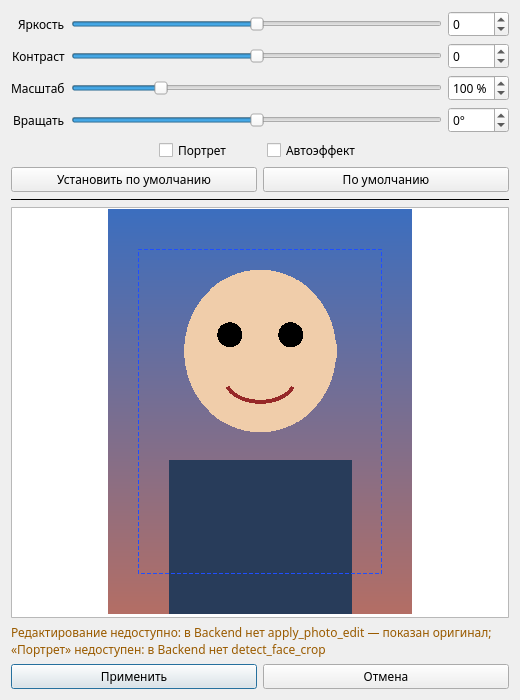
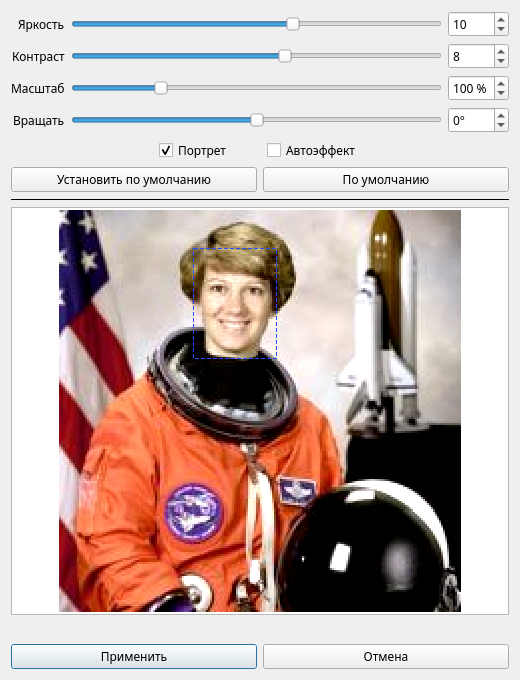
Этап 14: редактор фото на Backend ee79d16 — умолчания через get/set_photo_edit_defaults, «Применить» через apply_and_save_photo (field_name для поля image существующей записи), ValueError в статусе, сценарий qa_click_all, скриншот с рамкой лица

diff --git a/ui/smoke_test.py b/ui/smoke_test.py
@@ -781,46 +781,65 @@ dialogs.confirm_fields_hook = lambda new: seen.append(new) or True; dd.run(); di
 assert seen and dd.report.added == len(api.list_persons()) - 1 and {f["name"] for f in api2.list_fields()} >= {f0["name"]}, (dd.log.toPlainText(), api2.list_fields())
 dd.reject(); assert dd.sheets == [] and (wp is None or not Path(wp).exists()); api2.close()
 ok(f"этап 13: импорт xlsx (лист, заголовок, auto_match, «Отметка печати», привязка save/load/битая), .db → подтверждение → import_fields=True; sheet.close() при закрытии")
-# ===== этап 14: редактор фото (двойной клик / контекстное меню, ползунки, рамка, Портрет, Применить) =====
+# ===== этап 14: редактор фото (двойной клик / контекстное меню, ползунки, рамка, Портрет, умолчания, Применить) =====
 from PyQt6.QtTest import QTest
 from PyQt6.QtCore import QPointF
 from ui import photo_editor as pe
-from badge_backend import api as _bapi14
+from ui import backend_api as _ba14
+import shutil
 api14 = BackendAPI(str(tmp / "s14.db"), base_dir=str(tmp)); api14.upsert_field("foto", "Фото", 0, data_type="image")
 _pe = api14.create_element(type="photo", x=0, y=0, w=300, h=400); api14.link_field(_pe, "foto")
-demo.make_photo(tmp / "p14.png")
+_face = Path(__file__).resolve().parent.parent / "tests" / "fixtures" / "face_astronaut.jpg"
+if _face.is_file(): shutil.copy(_face, tmp / "p14.jpg")
+else: demo.make_photo(tmp / "p14.jpg")
 rf14 = RecordForm(api14, None, w); ie14 = rf14.edits["foto"]; rf14.show(); spin(30)
 assert abs(ie14.aspect - 0.75) < 1e-6 and not ie14.act_edit.isEnabled()
 got14 = []; pe.editor_hook = lambda d: got14.append(d) or 0
-ie14.from_file(str(tmp / "p14.png")); spin(30); assert not got14 and ie14.editor is None       # после файла сам не открывается
+ie14.from_file(str(tmp / "p14.jpg")); spin(30); assert not got14 and ie14.editor is None       # после файла сам не открывается
 assert ie14.act_edit in ie14.still.actions() and ie14.act_edit.isEnabled()                   # тот же QAction в контекстном меню
 QTest.mouseDClick(ie14.still, Qt.MouseButton.LeftButton); spin(30); ed14 = got14[-1]
-assert ed14.windowTitle() == "Редактировать изображение" and "apply_photo_edit" in ed14.status.text()
+assert ed14.windowTitle() == "Редактировать изображение"
 assert [b.text() for b in (ed14.b_apply, ed14.b_cancel)] == ["Применить", "Отмена"] and "УгЧ" not in " ".join(b.text() for b in ed14.findChildren(QPushButton))
 assert [(ed14.sp[k].minimum(), ed14.sp[k].maximum()) for k in ("brightness", "contrast", "scale", "rotate")] == [(-50, 50), (-50, 50), (10, 400), (-180, 180)]
-assert ed14.apply() is False and ed14.find_face() is False and not ed14.portrait.isChecked() and "Лицо не найдено" in ed14.status.text()
 r0 = ed14.frame.rect(); assert abs(r0.width() / r0.height() - 0.75) < 1e-3 and ed14.frame.pen().style() == Qt.PenStyle.DashLine
-ed14.frame.resize_corner("br", QPointF(r0.right() - 100, r0.bottom() - 10)); r1 = ed14.frame.rect()
+ed14.frame.resize_corner("br", QPointF(r0.right() - 50, r0.bottom() - 5)); r1 = ed14.frame.rect()
 assert abs(r1.width() / r1.height() - 0.75) < 1e-3 and r1.topLeft() == r0.topLeft() and r1.width() < r0.width()
 ed14.frame.move_by(QPointF(-10000, -10000)); assert ed14.frame.rect().topLeft() == QPointF(0, 0)
-ed14.sl["brightness"].setValue(20); assert ed14.sp["brightness"].value() == 20 and ed14.params()["brightness"] == 20
-ed14.save_defaults(); ed14.sp["brightness"].setValue(-5); ed14.load_defaults(); assert ed14.sp["brightness"].value() == 20
-ed14.settings.remove("photo_editor/defaults"); ed14.load_defaults(); assert ed14.params(crop=False)["brightness"] == 0
-# с функциями Backend (подставлены только в тесте: тождественная обработка + фиксированная рамка лица)
-calls = []
-_bapi14.apply_photo_edit = lambda img, p: calls.append(dict(p)) or img
-_bapi14.detect_face_crop = lambda img, aspect: (30, 40, 300, 400)
-try:
-    ed14.sp["contrast"].setValue(10); ed14.update_preview(); assert calls and calls[-1]["contrast"] == 10 and calls[-1]["crop"] is None
-    assert ed14.find_face() and ed14.crop() == (30, 40, 300, 400)
-    ed14.autoeffect.setChecked(True); assert ed14.apply() is True and calls[-1]["crop"] == (30, 40, 300, 400) and calls[-1]["autoeffect"]
-    assert ed14.result_path.startswith("photos/") and (tmp / ed14.result_path).is_file()
-    assert ie14.text() == ed14.result_path, (ie14.text(), ed14.result_path)
-    rf14.save(); assert api14.list_persons()[-1]["fields"]["foto"] == ed14.result_path
-finally:
-    del _bapi14.apply_photo_edit, _bapi14.detect_face_crop; pe.editor_hook = None
+if _ba14.photo_edit_available():
+    assert "нет apply_photo_edit" not in ed14.status.text() and "нет detect_face_crop" not in ed14.status.text(), ed14.status.text()
+    px0 = ed14.img.tobytes(); ed14.sl["brightness"].setValue(20); ed14.update_preview()
+    assert ed14.sp["brightness"].value() == 20 and ed14.img.tobytes() != px0                  # превью через Backend
+    sz0 = ed14.img.size; ed14.sp["scale"].setValue(50); ed14.update_preview(); assert ed14.img.width < sz0[0]
+    ed14.sp["scale"].setValue(100); ed14.update_preview()
+    # умолчания проекта — Backend get/set_photo_edit_defaults
+    assert ed14.save_defaults()["brightness"] == 20 and api14.get_photo_edit_defaults()["brightness"] == 20
+    ed14.sp["brightness"].setValue(-5); ed14.load_defaults(); assert ed14.sp["brightness"].value() == 20
+    ed14b = pe.PhotoEditor(str(tmp / "p14.jpg"), api14, 0.75); assert ed14b.sp["brightness"].value() == 20; ed14b.reject()
+    api14.set_photo_edit_defaults(dict(_ba14.PHOTO_EDIT_DEFAULTS)); ed14.load_defaults(); assert ed14.params(crop=False)["brightness"] == 0
+    # ValueError → статус по-русски
+    ed14.frame.setRect(ed14.frame.rect().translated(100000, 100000)); assert ed14.apply() is False and "Фото не сохранено" in ed14.status.text()
+    ed14.reset_frame()
+    # Портрет: рамка по лицу (или «Лицо не найдено»)
+    ed14.portrait.setChecked(True); spin(10)
+    face = ed14.portrait.isChecked(); assert face or "Лицо не найдено" in ed14.status.text()
+    if _face.is_file(): assert face, ed14.status.text()
+    fr = ed14.frame.rect(); assert abs(fr.width() / fr.height() - 0.75) < 0.02
+    ed14.autoeffect.setChecked(True); spin(100); assert ed14.params()["autoeffect"]
+    # Применить (новая запись → apply_and_save_photo без field_name; путь в поле формы → «Сохранить»)
+    assert ed14.apply() is True and ed14.result_path.startswith("photos/") and (tmp / ed14.result_path).is_file()
+    assert ie14.text() == ed14.result_path and (tmp / "p14.jpg").is_file(), (ie14.text(), ed14.result_path)
+    rf14.save(); pid14 = api14.list_persons()[-1]["id"]; assert api14.list_persons()[-1]["fields"]["foto"] == ed14.result_path
+    # существующая запись → apply_and_save_photo(field_name="foto", person_id) — Backend сам пишет поле
+    rf14b = RecordForm(api14, pid14, w); ie14b = rf14b.edits["foto"]; assert ie14b.person_id == pid14 and ie14b.field_name == "foto"
+    QTest.mouseDClick(ie14b.still, Qt.MouseButton.LeftButton); spin(30); ed14c = got14[-1]; old = ie14b.text()
+    assert ed14c.field_name == "foto" and ed14c.person_id == pid14 and ed14c.apply() is True and ed14c.result_path != old
+    assert api14.get_person(pid14)["fields"]["foto"] == ed14c.result_path == ie14b.text(); rf14b.reject()
+else:
+    assert "apply_photo_edit" in ed14.status.text() and ed14.apply() is False
+    assert ed14.find_face() is False and "Лицо не найдено" in ed14.status.text()
+pe.editor_hook = None
 api14.close()
-ok("этап 14: редактор фото — двойной клик/контекстное меню (один QAction), без автооткрытия, ползунки с полями, рамка с пропорциями элемента (углы/перенос), Портрет, по умолчанию, Применить → save_photo → поле image; без Backend — оригинал и статус")
+ok("этап 14: редактор фото — двойной клик/контекстное меню (один QAction), без автооткрытия, ползунки с полями, превью Backend, рамка с пропорциями (углы/перенос), Портрет (лицо), Автоэффект, умолчания проекта (Backend), ValueError в статусе, Применить → apply_and_save_photo → поле image")
 # расположение окна сохраняется автоматически в closeEvent
 _cfg2 = tempfile.mkdtemp(prefix="bg_ui_cfg2_")
 QSettings.setPath(QSettings.Format.NativeFormat, QSettings.Scope.UserScope, _cfg2)

diff --git a/ui/photo_editor.py b/ui/photo_editor.py
@@ -6,12 +6,13 @@ backend_api; нет функции → оригинал и статус «нед
 «Применить» → save_photo → относительный путь (в значение поля типа image). Внизу только «Применить» / «Отмена».
 """
 import json
-from PyQt6.QtCore import Qt, QTimer, QRectF, QPointF, QSettings
+from PyQt6.QtCore import Qt, QTimer, QRectF, QPointF
 from PyQt6.QtGui import QPen, QColor, QPixmap, QAction
 from PyQt6.QtWidgets import (QDialog, QVBoxLayout, QHBoxLayout, QGridLayout, QLabel, QSlider, QSpinBox, QCheckBox,
                              QPushButton, QGraphicsView, QGraphicsScene, QGraphicsRectItem, QGraphicsPixmapItem, QFrame)
 from .backend_api import (pil_to_qimage, PHOTO_EDIT_DEFAULTS, photo_edit_available, face_detect_available,
-                          open_image, apply_photo_edit, detect_face_crop, image_png_bytes)
+                          open_image, apply_photo_edit, detect_face_crop, image_png_bytes,
+                          apply_and_save_available)
 
 editor_hook = None   # тесты: editor_hook(dialog) вместо exec(); возвращает результат exec
 
@@ -66,10 +67,11 @@ class PhotoEditor(QDialog):
     SLIDERS = (("brightness", "Яркость", -50, 50, ""), ("contrast", "Контраст", -50, 50, ""),
                ("scale", "Масштаб", 10, 400, " %"), ("rotate", "Вращать", -180, 180, "°"))
 
-    def __init__(self, path, save_photo, aspect=3 / 4, parent=None, settings=None):
+    def __init__(self, path, api=None, aspect=3 / 4, parent=None, *, field_name=None, person_id=None):
+        """api — BackendAPI (умолчания проекта, apply_and_save_photo, save_photo); field_name/person_id — поле image записи."""
         super().__init__(parent); self.setWindowTitle("Редактировать изображение"); self.resize(520, 640)
-        self.path, self.save_photo, self.aspect, self.result_path = path, save_photo, aspect or 3 / 4, None
-        self.settings = settings or QSettings("BadgeGenerator", "Frontend")
+        self.path, self.api, self.aspect, self.result_path = path, api, aspect or 3 / 4, None
+        self.field_name, self.person_id = field_name, person_id
         self.src = open_image(path); self.img = self.src
         grid = QGridLayout(); self.sl, self.sp = {}, {}
         for i, (k, lab, lo, hi, suf) in enumerate(self.SLIDERS):
@@ -112,17 +114,26 @@ class PhotoEditor(QDialog):
         self.autoeffect.setChecked(bool(p.get("autoeffect")))
 
     def save_defaults(self):
-        p = self.params(crop=False); p.pop("crop"); self.settings.setValue("photo_editor/defaults", json.dumps(p)); return p
+        """«Установить по умолчанию» → Backend set_photo_edit_defaults (умолчания проекта, без crop)."""
+        try:
+            if self.api is None: raise ValueError("нет открытого проекта")
+            p = self.api.set_photo_edit_defaults(self.params(crop=False))
+        except ValueError as e:
+            self.status.setText(f"Умолчания не сохранены: {e}"); return None
+        self.status.setText("Текущие настройки сохранены как умолчания проекта"); return p
 
     def load_defaults(self, preview=True):
-        try: p = json.loads(self.settings.value("photo_editor/defaults") or "{}")
-        except Exception: p = {}  # noqa: BLE001
+        """«По умолчанию» → Backend get_photo_edit_defaults; нет проекта/функции → DEFAULT_PHOTO_EDIT."""
+        p = self.api.get_photo_edit_defaults() if self.api is not None else dict(PHOTO_EDIT_DEFAULTS)
         self.set_params({**PHOTO_EDIT_DEFAULTS, **p})
         if preview: self.update_preview()
 
     # ---- превью: только Backend ----
     def update_preview(self):
-        self.img = apply_photo_edit(self.src, self.params(crop=False))
+        try: self.img = apply_photo_edit(self.src, self.params(crop=False))
+        except ValueError as e:
+            self.status.setText(f"Ошибка правки: {e}"); return False
+        if self.status.text().startswith("Ошибка правки"): self.status.setText(self.base_status)
         self.pix.setPixmap(QPixmap.fromImage(pil_to_qimage(self.img)))
         b = QRectF(0, 0, self.img.width, self.img.height); self.scene.setSceneRect(b)
         if self.frame is not None:
@@ -151,7 +162,8 @@ class PhotoEditor(QDialog):
         self.frame.setRect(QRectF(x, y, w, w / self.aspect if w and h and abs(w / h - self.aspect) > 1e-3 else h))
 
     def find_face(self):
-        box = detect_face_crop(self.img, self.aspect)
+        try: box = detect_face_crop(self.img, self.aspect)
+        except ValueError as e: box = None; self.status.setText(f"Поиск лица: {e}")
         if not box:
             self.portrait.blockSignals(True); self.portrait.setChecked(False); self.portrait.blockSignals(False)
             self.status.setText("Лицо не найдено" + (f" ({self.base_status})" if not face_detect_available() else "")); return False
@@ -159,11 +171,22 @@ class PhotoEditor(QDialog):
 
     # ---- применить ----
     def apply(self):
+        """«Применить». Исходный файл есть всегда (файл или снимок во временном файле) → Backend apply_and_save_photo
+        (новый файл, исходник не трогается). Поле image СУЩЕСТВУЮЩЕЙ записи → field_name + person_id (Backend сам пишет
+        значение поля); новая запись / photo_path → без них: путь идёт в форму и сохраняется её кнопкой «Сохранить».
+        Нет apply_and_save_photo или исходного файла → apply_photo_edit + save_photo (байты)."""
         if not photo_edit_available():
             self.status.setText("Применить нельзя: в Backend нет apply_photo_edit"); return False
+        if self.api is None:
+            self.status.setText("Применить нельзя: нет открытого проекта"); return False
+        p = self.params()
         try:
-            out = apply_photo_edit(self.src, self.params())
-            self.result_path = self.save_photo(image_png_bytes(out), person_id=None, ext="png")
+            if apply_and_save_available() and self.path:
+                link = self.field_name is not None and self.person_id is not None
+                self.result_path = self.api.apply_and_save_photo(self.path, p, person_id=self.person_id if link else None,
+                                                                 field_name=self.field_name if link else None)
+            else:
+                self.result_path = self.api.save_photo(image_png_bytes(apply_photo_edit(self.src, p)), person_id=None, ext="png")
         except ValueError as e:
             self.status.setText(f"Фото не сохранено: {e}"); return False
         self.accept(); return True

diff --git a/ui/qa_click_all.py b/ui/qa_click_all.py
@@ -155,19 +155,47 @@ def scenario(tmp, chk, out, EXC):
             got = dd.report.added if dd.report else None; nf = len(api3.list_fields()); dd.reject(); api3.close()
             chk("DLG Импорт .db: подтверждение → import_fields=True, поля созданы", bool(asked) and nf > 0 and got and len(EXC) == n,
                 f"новые поля={asked[:1]}; создано полей={nf}; добавлено={got}")
-            # этап 14: редактор фото — двойной клик по фото в форме записи (тот же QAction, что в контекстном меню)
+            # этап 14: редактор фото — поле image, двойной клик по фото формы записи (тот же QAction, что в контекстном меню)
             from . import photo_editor as pe
+            from . import backend_api as ba
             from PyQt6.QtTest import QTest
-            n = len(EXC); f = RecordForm(w2.api, None, w2); f.show(); spin(50); pb = f.photo_block
-            ph = tmp / "qa14.png"; QImage(240, 320, QImage.Format.Format_RGB32).save(str(ph)); pb.from_file(str(ph)); spin(30)
-            auto = pb.editor is not None; seen = []
-            pe.editor_hook = lambda d: (d.show(), spin(50), seen.append((d.windowTitle(), d.isVisible(), d.b_apply.text(), d.b_cancel.text())), d.reject())
+            import shutil
+            from pathlib import Path
+            n = len(EXC); a14 = BackendAPI(str(tmp / "qa14.db"), base_dir=str(tmp)); a14.upsert_field("foto", "Фото", 0, data_type="image")
+            el = a14.create_element(type="photo", x=0, y=0, w=300, h=400); a14.link_field(el, "foto")
+            face = Path(__file__).resolve().parent.parent / "tests" / "fixtures" / "face_astronaut.jpg"
+            ph = tmp / "qa14.png"
+            if face.is_file(): ph = tmp / "qa14.jpg"; shutil.copy(face, ph)
+            else: img = QImage(240, 320, QImage.Format.Format_RGB32); img.fill(QColor("#7A8F9C")); img.save(str(ph))
+            f = RecordForm(a14, None, w2); f.show(); spin(50); pb = f.edits["foto"]; pb.from_file(str(ph)); spin(30)
+            auto = pb.editor is not None; seen = []; res = {}
+            def _drive(d):
+                d.show(); spin(50); seen.append((d.windowTitle(), d.isVisible(), d.b_apply.text(), d.b_cancel.text()))
+                px0 = d.img.tobytes(); d.sl["brightness"].setValue(25); d.sl["contrast"].setValue(10); d.update_preview(); spin(20)
+                res["preview"] = d.img.tobytes() != px0
+                d.portrait.setChecked(True); spin(20)
+                fr = d.frame.rect(); res["portrait"] = (d.portrait.isChecked() and abs(fr.width() / fr.height() - pb.aspect) < 0.02) \
+                    or "Лицо не найдено" in d.status.text()
+                d.autoeffect.setChecked(True); spin(100); res["auto"] = d.params()["autoeffect"] is True
+                saved = d.save_defaults(); d.sl["brightness"].setValue(-30); d.autoeffect.setChecked(False); d.load_defaults()
+                res["defaults"] = bool(saved) and d.sp["brightness"].value() == 25 and d.autoeffect.isChecked() \
+                    and a14.get_photo_edit_defaults()["brightness"] == 25
+                res["apply"] = d.apply(); res["path"] = d.result_path; res["status"] = d.status.text()
+                if d.isVisible(): d.reject()
+            pe.editor_hook = _drive
             try: QTest.mouseDClick(pb.still, Qt.MouseButton.LeftButton); spin(50)
             finally: pe.editor_hook = None
-            pb.stop(); f.reject(); spin(30)
+            val = pb.text(); pb.stop(); f.reject(); spin(30); a14.close()
             chk("DLG «Редактировать изображение» по двойному клику на фото формы записи (не открывается сам после файла)",
                 not auto and seen and seen[0][:2] == ("Редактировать изображение", True) and pb.act_edit in pb.still.actions() and len(EXC) == n,
                 seen or "не открылся")
+            if ba.photo_edit_available():
+                chk("DLG Редактор фото: ползунки меняют превью (Backend apply_photo_edit)", res.get("preview"), res)
+                chk("DLG Редактор фото: «Портрет» ставит рамку по лицу или статус «Лицо не найдено»", res.get("portrait"), res.get("status"))
+                chk("DLG Редактор фото: «Автоэффект» в параметрах", res.get("auto"), res)
+                chk("DLG Редактор фото: умолчания проекта сохраняются и восстанавливаются (Backend)", res.get("defaults"), res)
+                chk("DLG Редактор фото: «Применить» → новый photos/… в поле image", res.get("apply") is True and str(res.get("path", "")).startswith("photos/")
+                    and val == res["path"] and (tmp / val).is_file() and ph.is_file(), res)
         except Exception:  # noqa: BLE001
             chk("DLG Импорт/экспорт этапа 13 без исключений", False, traceback.format_exc()[-800:])
         finally:

diff --git a/ui/backend_api.py b/ui/backend_api.py
@@ -298,16 +298,18 @@ BackendAPI.import_rows = _bapi_import_rows
 BackendAPI.export_persons = _bapi_export_persons
 
 
-# ---------------- Этап 14: редактор фото (адаптер; функций пока нет в Backend) ----------------
-# Ожидается: apply_photo_edit(img: PIL.Image, params: dict) -> PIL.Image
-#            params = {"brightness": int -50..50, "contrast": int -50..50, "scale": int 10..400 (%),
-#                      "rotate": float -180..180 (°, по часовой), "crop": (x, y, w, h) | None (px исходника), "autoeffect": bool}
-#            detect_face_crop(img: PIL.Image, aspect: float) -> (x, y, w, h) | None   (aspect = w / h фото-элемента)
-PHOTO_EDIT_DEFAULTS = {"brightness": 0, "contrast": 0, "scale": 100, "rotate": 0.0, "crop": None, "autoeffect": False}
+# ---------------- Этап 14: редактор фото — Backend ee79d16 (badge_backend.api) ----------------
+# apply_photo_edit(img, params) -> Image; порядок autoeffect → яркость → контраст → масштаб → поворот по часовой
+#   (белая заливка) → crop (x,y,w,h) в пикселях уже преобразованного изображения; ValueError.
+# detect_face_crop(img, aspect) -> (x,y,w,h)|None; get/set_photo_edit_defaults(con[, params]) — без crop (project_settings, v6);
+# apply_and_save_photo(con, source_path, params, *, person_id, field_name, base_dir) -> "photos/…" (новый файл).
+PHOTO_EDIT_DEFAULTS = dict(getattr(_api, "DEFAULT_PHOTO_EDIT", None) or
+                           {"brightness": 0, "contrast": 0, "scale": 100, "rotate": 0.0, "crop": None, "autoeffect": False})
 
 
 def photo_edit_available(): return callable(getattr(_api, "apply_photo_edit", None))
 def face_detect_available(): return callable(getattr(_api, "detect_face_crop", None))
+def apply_and_save_available(): return callable(getattr(_api, "apply_and_save_photo", None))
 
 
 def open_image(path):
@@ -330,3 +332,27 @@ def detect_face_crop(img, aspect):
 def image_png_bytes(img):
     import io
     b = io.BytesIO(); img.save(b, "PNG"); return b.getvalue()
+
+
+def _bapi_get_photo_edit_defaults(self):
+    """Умолчания редактора фото проекта (Backend); нет функции/ошибка → DEFAULT_PHOTO_EDIT."""
+    fn = getattr(_api, "get_photo_edit_defaults", None)
+    try: return {**PHOTO_EDIT_DEFAULTS, **(fn(self.con) if fn else {}), "crop": None}
+    except Exception: return dict(PHOTO_EDIT_DEFAULTS)  # noqa: BLE001
+
+
+def _bapi_set_photo_edit_defaults(self, params):
+    fn = getattr(_api, "set_photo_edit_defaults", None)
+    if fn is None: raise ValueError("сохранение умолчаний недоступно: в Backend нет set_photo_edit_defaults")
+    return fn(self.con, {**params, "crop": None})
+
+
+def _bapi_apply_and_save_photo(self, source_path, params, *, person_id=None, field_name=None):
+    fn = getattr(_api, "apply_and_save_photo", None)
+    if fn is None: raise ValueError("применение недоступно: в Backend нет apply_and_save_photo")
+    return fn(self.con, source_path, dict(params), person_id=person_id, field_name=field_name, base_dir=self.base_dir)
+
+
+BackendAPI.get_photo_edit_defaults = _bapi_get_photo_edit_defaults
+BackendAPI.set_photo_edit_defaults = _bapi_set_photo_edit_defaults
+BackendAPI.apply_and_save_photo = _bapi_apply_and_save_photo

diff --git a/ui/photo_block.py b/ui/photo_block.py
@@ -57,6 +57,7 @@ class PhotoBlock(QWidget):
         # этап 14: один QAction «Редактировать изображение…» — двойной клик по фото и контекстное меню
         from .photo_editor import make_edit_action
         self.save_photo, self.aspect, self.editor = None, 3 / 4, None
+        self.api, self.field_name, self.person_id = None, None, None     # задаёт RecordForm
         self.act_edit = make_edit_action(self, self.edit_photo)
         self.still.setContextMenuPolicy(Qt.ContextMenuPolicy.ActionsContextMenu); self.still.addAction(self.act_edit)
         self.still.installEventFilter(self); self.still.setToolTip("Двойной клик — редактировать изображение")
@@ -144,8 +145,8 @@ class PhotoBlock(QWidget):
         """Редактор фото (только по действию пользователя; после снимка/файла сам не открывается)."""
         from . import photo_editor as pe
         full = self._abs(self.path)
-        if not self.path or not os.path.isfile(full) or self.save_photo is None: return None
-        d = self.editor = pe.PhotoEditor(full, self.save_photo, self.aspect, self)
+        if not self.path or not os.path.isfile(full) or self.api is None: return None
+        d = self.editor = pe.PhotoEditor(full, self.api, self.aspect, self, field_name=self.field_name, person_id=self.person_id)
         d.accepted.connect(lambda: self._edited(d))
         return pe.editor_hook(d) if pe.editor_hook is not None else d.exec()
 

diff --git a/ui/record_form.py b/ui/record_form.py
@@ -125,7 +125,8 @@ class RecordForm(QDialog):
                 next((e for e in els if e["type"] == "photo"), None)
             return (e["w"] / e["h"]) if e and e.get("w") and e.get("h") else 3 / 4
         for blk, fn in [(self.photo_block, None), *[(e, n) for n, e in self.image_edits.items()]]:
-            blk.save_photo, blk.aspect = api.save_photo, _aspect(fn)
+            blk.save_photo, blk.aspect, blk.api = api.save_photo, _aspect(fn), api
+            blk.field_name, blk.person_id = fn, (person_id if p else None)
         self.photo_box = box; box.setVisible(not self.image_edits or unlinked)
         left = QVBoxLayout(); left.addLayout(form); left.addWidget(box); left.addStretch()
         main = QHBoxLayout(); main.addLayout(left); main.addLayout(pv)
